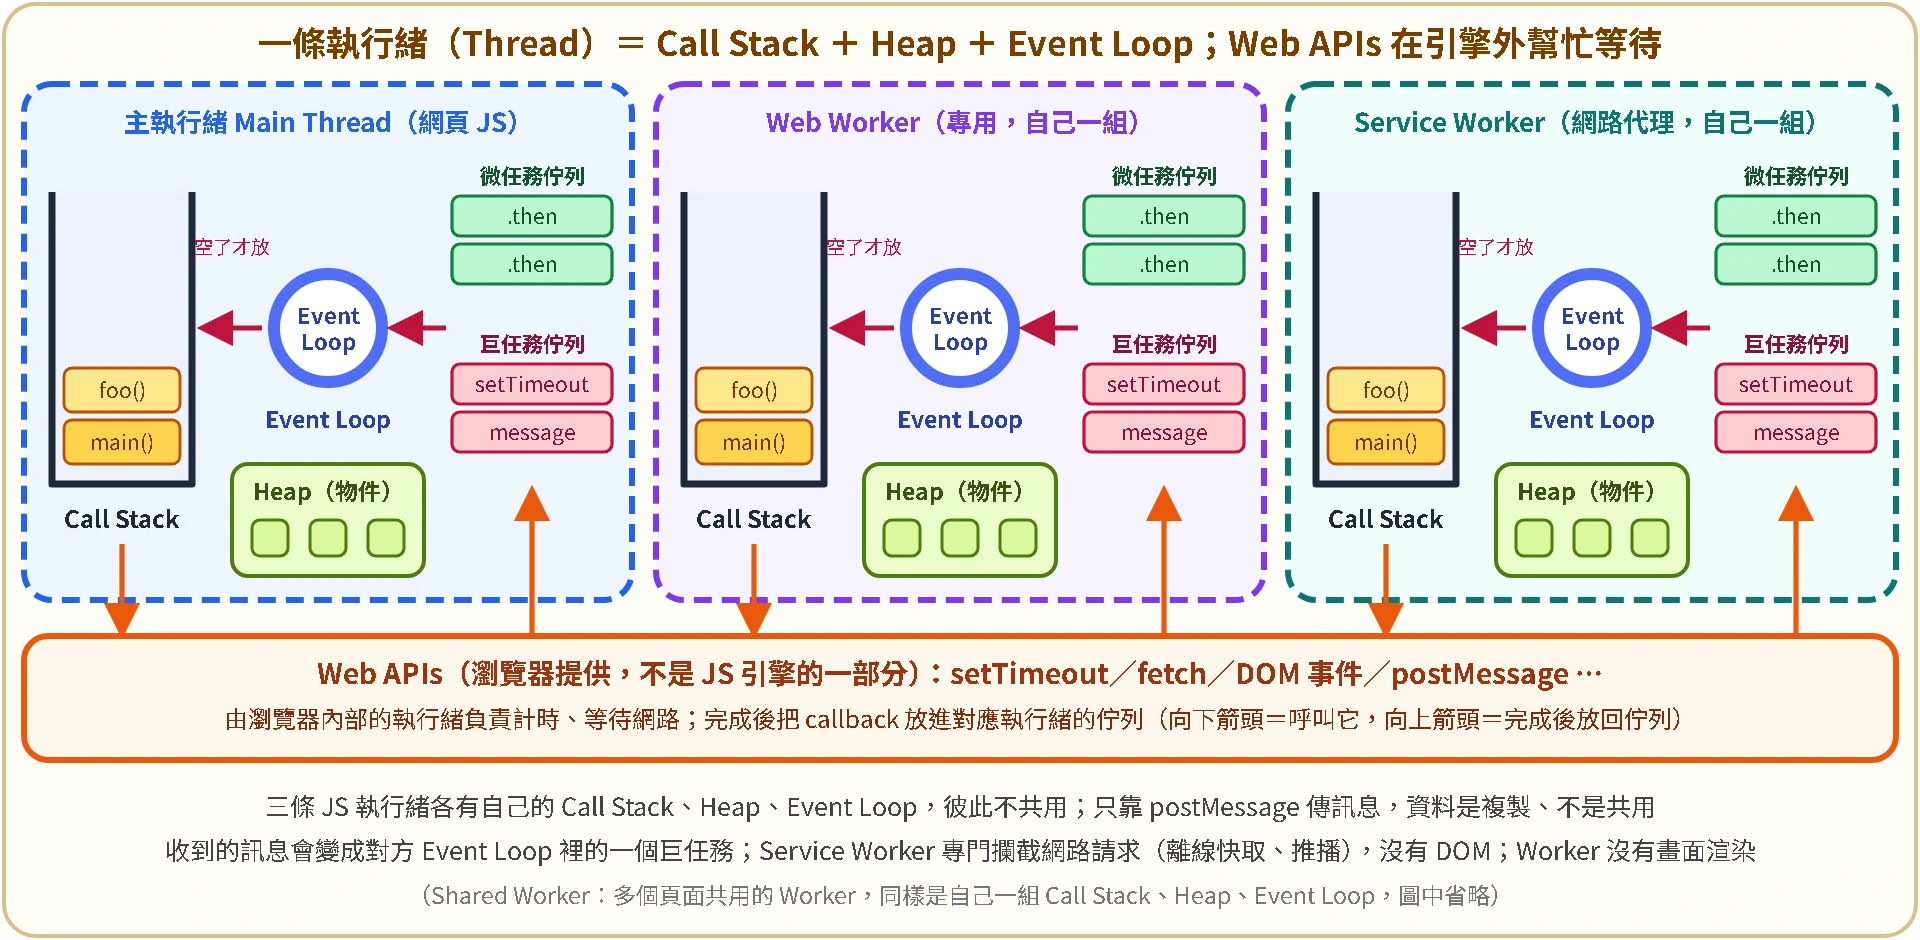
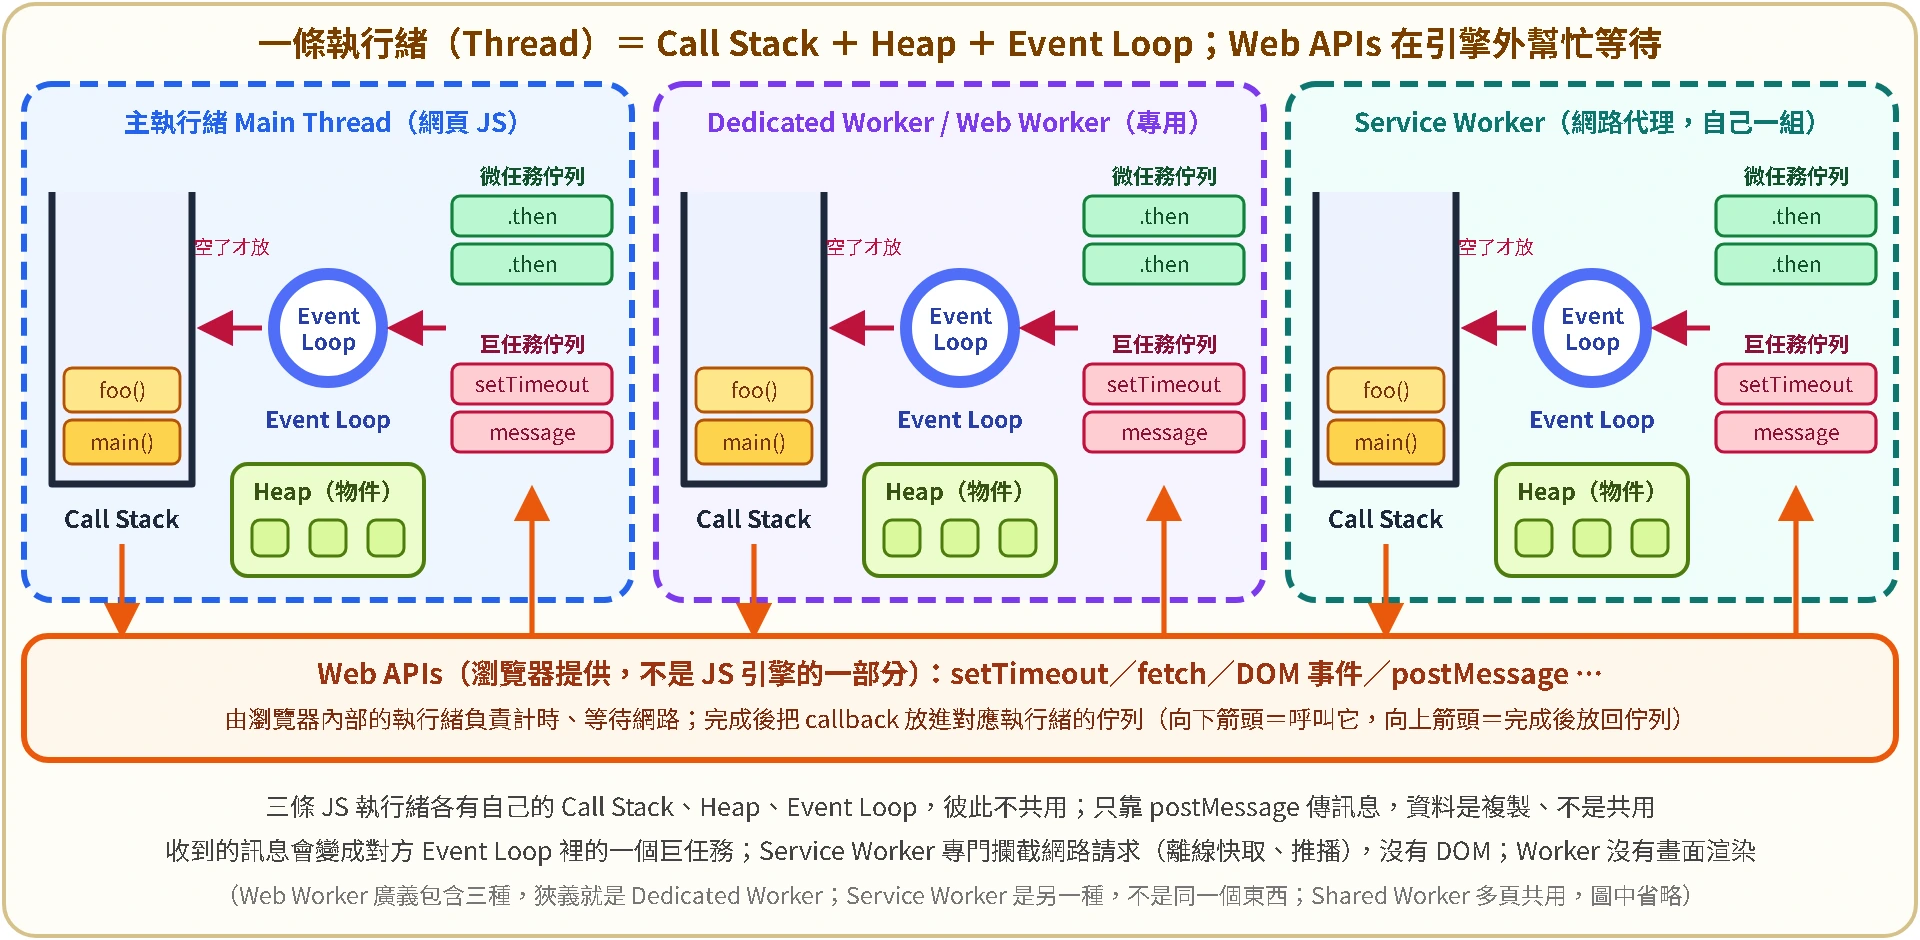
docs(notes): 補 Web Worker 定義與三種 Worker 對照（Dedicated／Web Worker 並列、Service Worker 分開），說明 Shared Worker 連線方式與 Worker 可用的 Web APIs，並更新資料來源

Changed region(s): [[0.125, 0.9255, 0.875, 0.9564], [0.375, 0.1234, 0.625, 0.1543]]

diff --git a/frontend-docs/javascript/JS_Core_and_Runtime/事件循環-Event-Loop-微任務與巨任務-互動版.html b/frontend-docs/javascript/JS_Core_and_Runtime/事件循環-Event-Loop-微任務與巨任務-互動版.html
@@ -129,6 +129,7 @@ eatBreakfast(); // 程式從這裡開始
 </tbody>
 </table>
 <p><mark style="background: #FF5582A6;">常見迷思澄清</mark>：「非同步是不是一次能執行多個任務？」<mark style="background: #BBFABBA6;">不是。</mark> 任何一微秒裡 JS 的 Call Stack <mark style="background: #FFF3A3A6;">永遠只有一行程式碼在跑</mark>。非同步的真相是：JS 本人（廚師）永遠單執行緒，是<mark style="background: #ADCCFFA6;">瀏覽器環境（Web APIs，多執行緒）</mark>在旁邊幫忙等待與計時；等外包做完，JS 再找空檔處理結果。所以「同時燒水又切菜」是<mark style="background: #FFF3A3A6;">整個網頁系統</mark>看起來的樣子，不是 JS 引擎本人。</p>
+<p><mark style="background: #ADCCFFA6;">Web Worker 的定義</mark>：讓網頁內容在「背景執行緒」裡執行腳本的簡單方式（MDN：Web Workers are a simple means for web content to run scripts in background threads）。用 <code>new Worker('檔案.js')</code> 建立一個 Worker 物件，那個檔案會在另一條執行緒、另一個全域環境（不是 <code>window</code>）裡跑，所以<mark style="background: #FFF3A3A6;">不能直接操作 DOM</mark>；它和主執行緒只靠 <code>postMessage</code> 與 <code>onmessage</code> 傳訊息，資料是複製、不是共用。Worker 裡仍然能用一部分 Web APIs，例如 <code>fetch()</code>、<code>XMLHttpRequest</code>、<code>setTimeout</code>／<code>setInterval</code>、WebSockets、IndexedDB，這些的 callback 會回到「這個 Worker 自己的」Event Loop，不是主執行緒的。</p>
 <p><mark style="background: #FF5582A6;">每個執行緒都有自己的 Call Stack</mark>（作業系統替每條執行緒各配一塊 stack 記憶體）。所以「JS 單執行緒」＝「只有一個 Call Stack」；多開一條執行緒，就多一個獨立的 Call Stack，而且 JS 的執行緒各自還有自己的 Event Loop：</p>
 <table>
 <thead>
@@ -162,7 +163,18 @@ eatBreakfast(); // 程式從這裡開始
 </table>
 <p><img src="../../../obsidian-attachment/事件循環_一條執行緒含一個CallStack與一個EventLoop_2026-10-13.svg" alt="一條執行緒＝一個 Call Stack＋一個 Event Loop" style="max-width:100%;height:auto"></p>
 <p>主執行緒和 Worker 靠 <code>postMessage</code> 傳訊息：對方收到的訊息，會變成它自己 Event Loop 裡的一個巨任務。因為不共用 Call Stack，<mark style="background: #FFF3A3A6;">Worker 裡的死迴圈不會讓主執行緒的畫面凍結</mark>，這也是重運算丟給 Worker 的原因。每條執行緒（agent）也各有自己的 Heap（裝物件的記憶體），所以 <code>postMessage</code> 傳資料是複製、不是共用；例外是 <code>SharedArrayBuffer</code>：兩邊各有自己的物件，但背後那塊記憶體是同一塊（MDN Execution model）。上面「Web APIs（多執行緒）在旁邊幫忙等待」的那些執行緒不跑你的 JS，所以沒有 JS 的 Call Stack。</p>
-<p>Worker 有三種：<mark style="background: #ADCCFFA6;">Dedicated Worker</mark>（只給建立它的腳本用，一般說的 Web Worker）、<mark style="background: #ADCCFFA6;">Shared Worker</mark>（多個頁面或 Worker 共用）、<mark style="background: #ADCCFFA6;">Service Worker</mark>（網路代理：攔截請求、離線快取、推播）。依 HTML 規格，三種各是自己的 agent，各有一個 worker event loop，也都沒有 DOM。Node.js 的 <code>worker_threads</code> 官方文件稱它是「獨立的 JavaScript 執行緒」，但沒有逐字寫「各有自己的 Event Loop」，本篇不下結論。官方出處見 <code>.md</code> 版文末「資料來源」。</p>
+<p><mark style="background: #FF5582A6;">Service Worker 和 Dedicated Worker 不是同一個東西</mark>。「Web Worker」有兩種用法：廣義是三種 Worker 的總稱（MDN：Service workers are a type of web worker），狹義就是 Dedicated Worker，所以寫成 Dedicated Worker / Web Worker：</p>
+<table>
+<thead>
+<tr><th>種類</th><th>誰能用</th><th>拿來做什麼</th></tr>
+</thead>
+<tbody>
+<tr><td>Dedicated Worker / Web Worker</td><td>只有建立它的那個腳本</td><td>在背景執行緒做重運算，不卡畫面</td></tr>
+<tr><td>Shared Worker</td><td>多個腳本（不同視窗、iframe、Worker 都可以），必須同源；大家連到「同一個 Worker 實例」，各自透過一個 port 與它通訊</td><td>多個頁面共用的背景工作；沒有任何頁面再參照它時才關閉</td></tr>
+<tr><td>Service Worker</td><td>註冊在某個來源與路徑下</td><td>像代理伺服器：攔截網路請求、離線快取、推播</td></tr>
+</tbody>
+</table>
+<p>三種的共同點：依 HTML 規格，三種各是自己的 agent，各有一個 worker event loop，也都沒有 DOM。Node.js 的 <code>worker_threads</code> 官方文件稱它是「獨立的 JavaScript 執行緒」，但沒有逐字寫「各有自己的 Event Loop」，本篇不下結論。官方出處見 <code>.md</code> 版文末「資料來源」。</p>
 <p>C++、Java 這類語言習慣直接開多條執行緒（Python、Go、Rust、C# 也都支援，不是只有它們）：多條執行緒共用同一塊記憶體，能在多核心 CPU 上真的同時跑，CPU 密集的計算通常因此變快；代價是<mark style="background: #FF5582A6;">死結（Deadlock）與競爭條件（Race Condition：多條執行緒同時改同一份資料而衝突）</mark>，要靠鎖（lock／mutex）自己小心管理。JS 主執行緒反過來：一次只有一個 Call Stack 在動資料，不會兩邊同時改，換來的是「同步運算太久就卡住所有事」。</p>
 <table>
 <thead>

diff --git a/frontend-docs/javascript/JS_Core_and_Runtime/事件循環-Event-Loop-微任務與巨任務.md b/frontend-docs/javascript/JS_Core_and_Runtime/事件循環-Event-Loop-微任務與巨任務.md
@@ -194,6 +194,8 @@ eatBreakfast(); // 程式從這裡開始
 
 <mark style="background: #FF5582A6;">常見迷思澄清</mark>：「非同步是不是一次能執行多個任務？」<mark style="background: #BBFABBA6;">不是。</mark> 任何一微秒裡 JS 的 Call Stack <mark style="background: #FFF3A3A6;">永遠只有一行程式碼在跑</mark>。非同步的真相是：JS 本人（廚師）永遠單執行緒，是<mark style="background: #ADCCFFA6;">瀏覽器環境（Web APIs，多執行緒）</mark>在旁邊幫忙等待與計時；等外包做完，JS 再找空檔處理結果。所以「同時燒水又切菜」是<mark style="background: #FFF3A3A6;">整個網頁系統</mark>看起來的樣子，不是 JS 引擎本人。
 
+<mark style="background: #ADCCFFA6;">Web Worker 的定義</mark>：讓網頁內容在「背景執行緒」裡執行腳本的簡單方式（MDN：Web Workers are a simple means for web content to run scripts in background threads）。用 `new Worker('檔案.js')` 建立一個 Worker 物件，那個檔案會在另一條執行緒、另一個全域環境（不是 `window`）裡跑，所以<mark style="background: #FFF3A3A6;">不能直接操作 DOM</mark>；它和主執行緒只靠 `postMessage` 與 `onmessage` 傳訊息，資料是複製、不是共用。Worker 裡仍然能用一部分 Web APIs，例如 `fetch()`、`XMLHttpRequest`、`setTimeout`／`setInterval`、WebSockets、IndexedDB，這些的 callback 會回到「這個 Worker 自己的」Event Loop，不是主執行緒的。
+
 <mark style="background: #FF5582A6;">每個執行緒都有自己的 Call Stack</mark>（作業系統替每條執行緒各配一塊 stack 記憶體）。所以「JS 單執行緒」＝「只有一個 Call Stack」；多開一條執行緒，就多一個獨立的 Call Stack，而且 JS 的執行緒各自還有自己的 Event Loop：
 
 | 執行緒 | 有自己的 Call Stack？ | 有自己的 Event Loop？ | 跑你寫的 JS？ |
@@ -206,7 +208,15 @@ eatBreakfast(); // 程式從這裡開始
 
 主執行緒和 Worker 靠 `postMessage` 傳訊息：對方收到的訊息，會變成它自己 Event Loop 裡的一個巨任務。因為不共用 Call Stack，<mark style="background: #FFF3A3A6;">Worker 裡的死迴圈不會讓主執行緒的畫面凍結</mark>，這也是重運算丟給 Worker 的原因。每條執行緒（agent）也各有自己的 Heap（裝物件的記憶體），所以 `postMessage` 傳資料是複製、不是共用；例外是 `SharedArrayBuffer`：兩邊各有自己的物件，但背後那塊記憶體是同一塊（MDN Execution model）。上面「Web APIs（多執行緒）在旁邊幫忙等待」的那些執行緒不跑你的 JS，所以沒有 JS 的 Call Stack。
 
-Worker 有三種：<mark style="background: #ADCCFFA6;">Dedicated Worker</mark>（只給建立它的腳本用，一般說的 Web Worker）、<mark style="background: #ADCCFFA6;">Shared Worker</mark>（多個頁面或 Worker 共用）、<mark style="background: #ADCCFFA6;">Service Worker</mark>（網路代理：攔截請求、離線快取、推播）。依 HTML 規格，三種各是自己的 agent，各有一個 worker event loop，也都沒有 DOM。順帶一提，規格說的是「agent」：同一個 agent 可以包含主文件和它的同源 iframe，所以主執行緒的 event loop 可能被同源 iframe 共用。Node.js 的 `worker_threads` 官方文件稱它是「獨立的 JavaScript 執行緒」，但沒有逐字寫「各有自己的 Event Loop」，本篇不下結論。
+<mark style="background: #FF5582A6;">Service Worker 和 Dedicated Worker 不是同一個東西</mark>。「Web Worker」有兩種用法：廣義是三種 Worker 的總稱（MDN：Service workers are a type of web worker），狹義就是 Dedicated Worker，所以寫成 Dedicated Worker / Web Worker：
+
+| 種類 | 誰能用 | 拿來做什麼 |
+|------|--------|-----------|
+| Dedicated Worker / Web Worker | 只有建立它的那個腳本 | 在背景執行緒做重運算，不卡畫面 |
+| Shared Worker | 多個腳本（不同視窗、iframe、Worker 都可以），必須同源；大家連到「同一個 Worker 實例」，各自透過一個 port 與它通訊 | 多個頁面共用的背景工作；沒有任何頁面再參照它時才關閉 |
+| Service Worker | 註冊在某個來源與路徑下 | 像代理伺服器：攔截網路請求、離線快取、推播 |
+
+三種的共同點：依 HTML 規格，三種各是自己的 agent，各有一個 worker event loop，也都沒有 DOM。順帶一提，規格說的是「agent」：同一個 agent 可以包含主文件和它的同源 iframe，所以主執行緒的 event loop 可能被同源 iframe 共用。Node.js 的 `worker_threads` 官方文件稱它是「獨立的 JavaScript 執行緒」，但沒有逐字寫「各有自己的 Event Loop」，本篇不下結論。
 
 C++、Java 這類語言習慣直接開多條執行緒（Python、Go、Rust、C# 也都支援，不是只有它們）：多條執行緒共用同一塊記憶體，能在多核心 CPU 上真的同時跑，CPU 密集的計算通常因此變快；代價是<mark style="background: #FF5582A6;">死結（Deadlock）與競爭條件（Race Condition：多條執行緒同時改同一份資料而衝突）</mark>，要靠鎖（lock／mutex）自己小心管理。JS 主執行緒反過來：一次只有一個 Call Stack 在動資料，不會兩邊同時改，換來的是「同步運算太久就卡住所有事」。 詳見 [[並行串行]]。
 
@@ -359,7 +369,7 @@ Gemini：JS 是單執行緒語言，結合 Call Stack、Web APIs、Callback Queu
 | 每個 worker 建立自己的 agent；每個 agent 各有自己的 Stack、Heap、Queue（HTML 稱 event loop）；同一 agent 可含主文件與同源 iframe | https://developer.mozilla.org/en-US/docs/Web/JavaScript/Reference/Execution_model | MDN，2026-10-13 查證 |
 | 建立 agent 時「Set agent's event loop to a new event loop」；worker event loop 的定義；一個 event loop 有一個以上 task queue；每個 task 後做微任務檢查點；畫面渲染只由 window event loop 執行；rAF callbacks 在樣式與排版之前 | https://html.spec.whatwg.org/multipage/webappapis.html#event-loops | HTML Living Standard（Event loops 一節），2026-10-13 查證 |
 | postMessage 的訊息以「posted message task source」上的 task 送達；MessagePort 的 port message queue 是 event loop 的 task source | https://html.spec.whatwg.org/multipage/web-messaging.html | HTML Living Standard，2026-10-13 查證 |
-| Worker 在另一條執行緒、不能操作 DOM、資料以 postMessage 複製；Dedicated／Shared／Service Worker | https://developer.mozilla.org/en-US/docs/Web/API/Web_Workers_API/Using_web_workers | MDN，2026-10-13 查證 |
+| Worker 在另一條執行緒、不能操作 DOM、資料以 postMessage 複製；Worker 可用 fetch／XMLHttpRequest／setTimeout／WebSockets／IndexedDB；Dedicated／Shared／Service Worker；Shared Worker 須同源、以 port 通訊、無人參照時關閉 | https://developer.mozilla.org/en-US/docs/Web/API/Web_Workers_API/Using_web_workers | MDN，2026-10-13 查證 |
 | Service Worker 跑在 worker context、沒有 DOM、在不同執行緒、像代理伺服器攔截請求 | https://developer.mozilla.org/en-US/docs/Web/API/Service_Worker_API | MDN，2026-10-13 查證 |
 | Node.js worker_threads 是「獨立的 JavaScript 執行緒」；適合 CPU 密集、對 I/O 密集幫助不大；未逐字寫各有 Event Loop | https://nodejs.org/api/worker_threads.html | Node.js 官方文件，2026-10-13 查證 |
 
